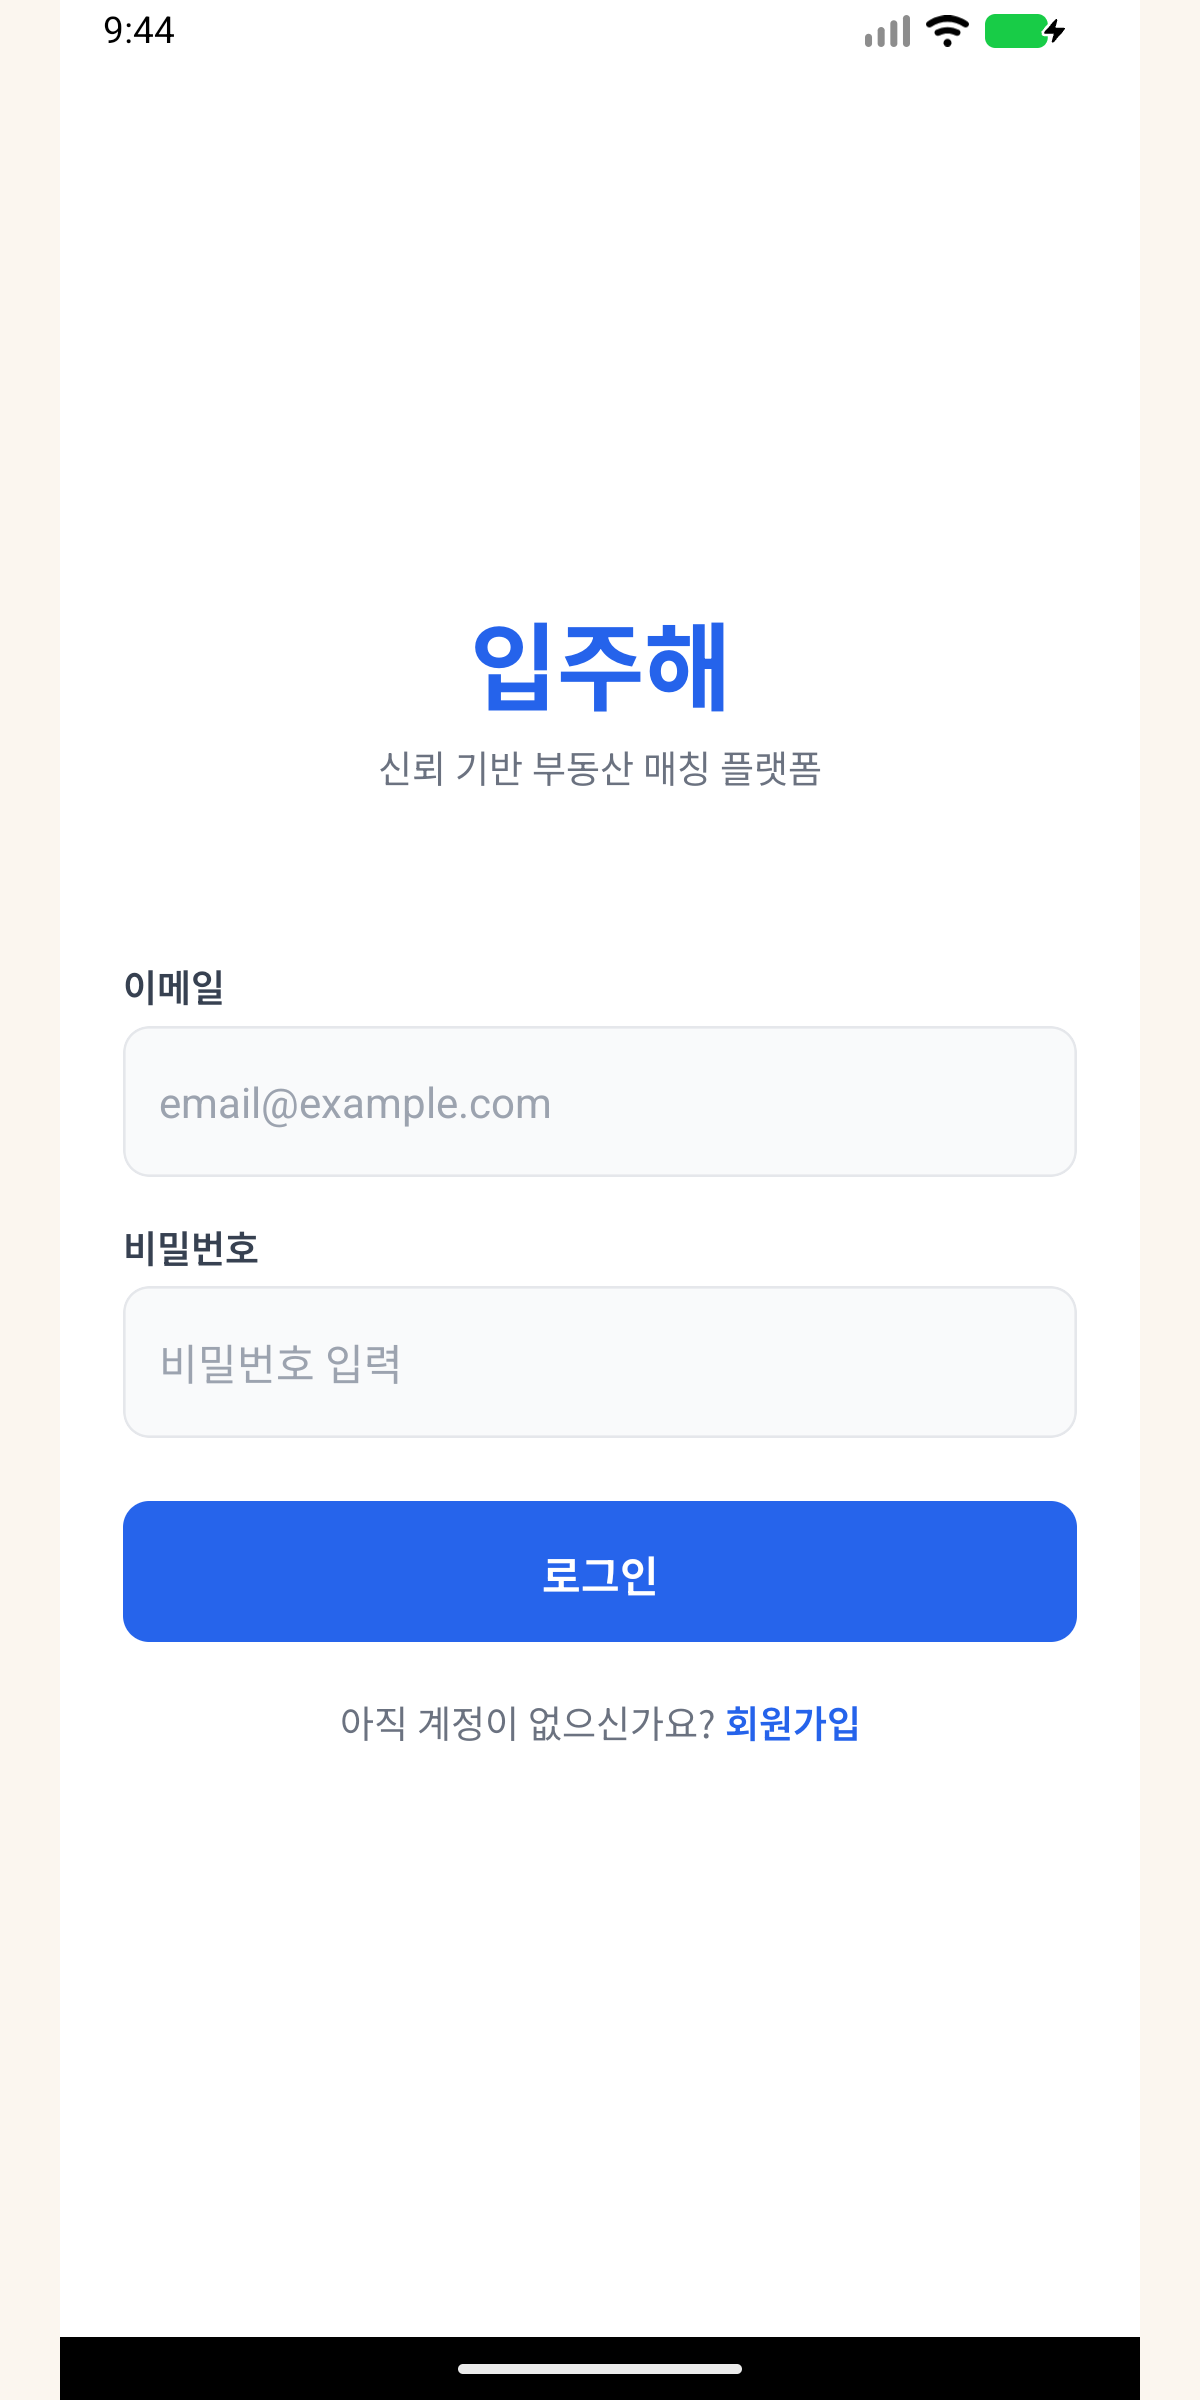
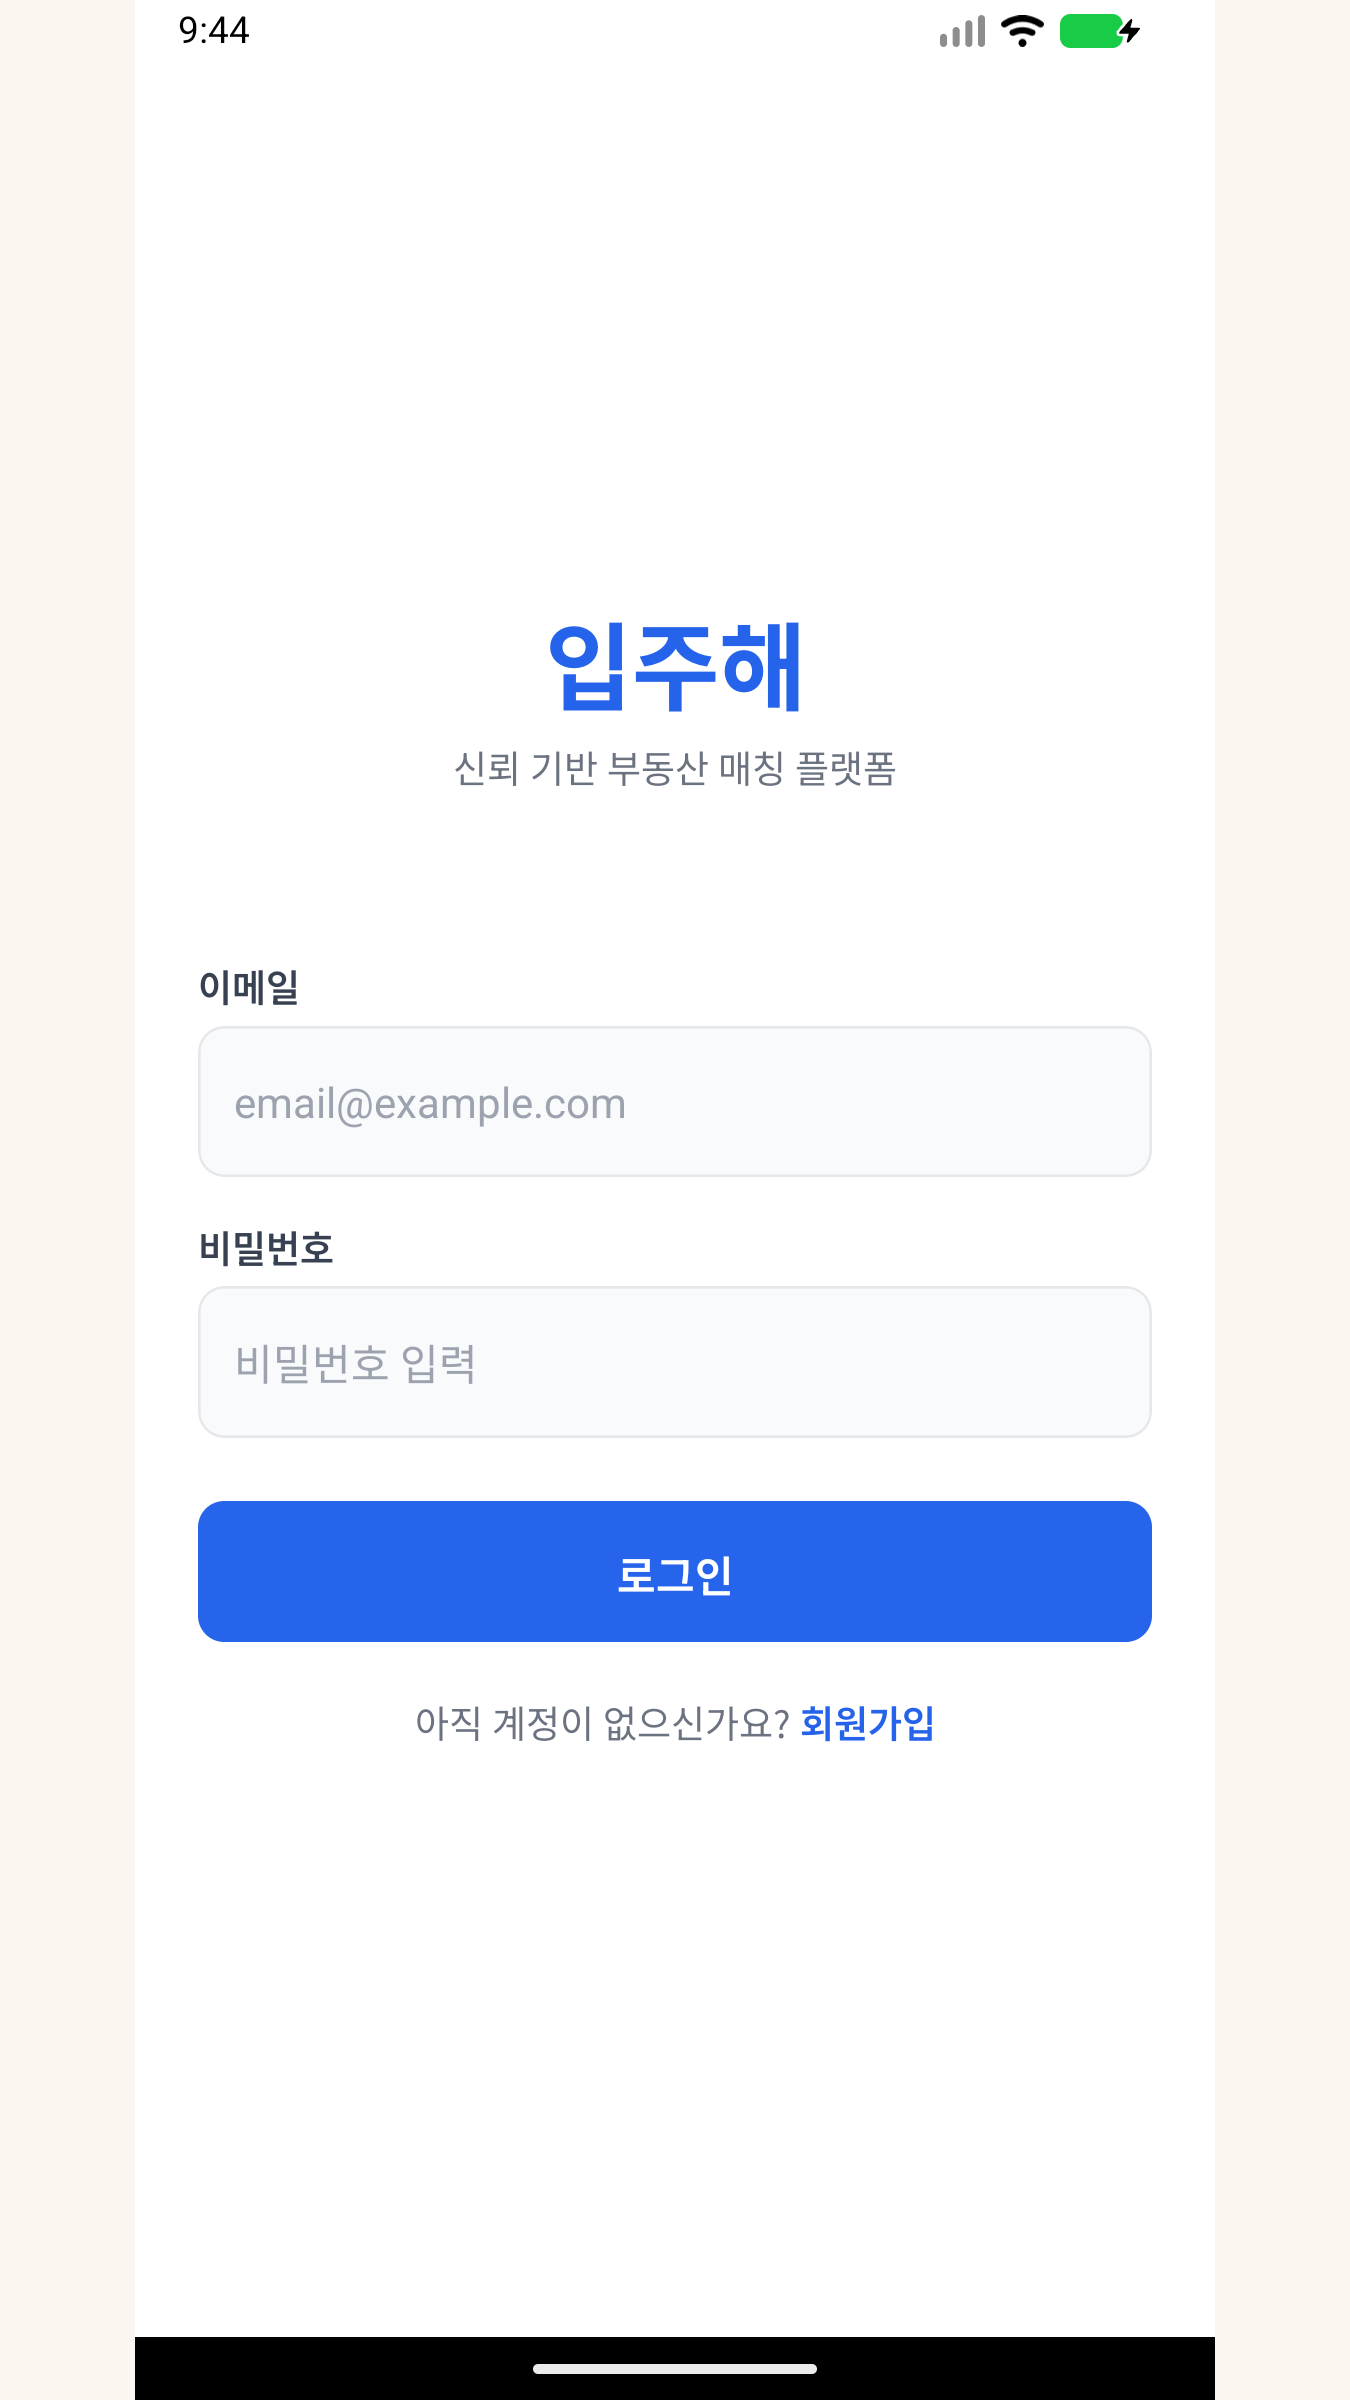
chore(mobile): 스토어 자료 정비 — 문안·스크린샷 규격
- 스크린샷 1200x2400(1:2)은 Play가 받지 않는 비율이라 1350x2400(9:16)으로 맞춤
- 스토어 문안을 앱이 실제로 하는 일로 다시 씀. 매물 0건이라 매물 탐색을
  앞세우면 빈 화면을 보게 되므로 프로필·인증·신뢰를 앞에 두고 초기 단계임을 명시
- 심사 메모 추가 — 매물 탭이 비어 있는 것이 정상임을 미리 알린다
- 심사용 계정 프로덕션 로그인 재확인(2026-09-15), 계정 삭제 경로 공시에 반영

Claude-Session: https://claude.ai/code/session_01XLFyY7qYmhRvdVUCkz4TQh

diff --git a/mobile/store-listing.md b/mobile/store-listing.md
@@ -1,68 +1,118 @@
-# 입주해 스토어 등록 자료 초안
+# 입주해 스토어 등록 자료
+
+제출 직전에 이 파일을 그대로 복사해 쓴다. 문안은 **앱이 지금 실제로 하는 일**만 적는다 —
+스토어 설명과 앱이 다르면 반려되고, 반려를 피해도 받은 사람이 바로 지운다.
+
+> **지금 상태**: 프로덕션 매물 0건. 매물 탐색을 앞세우면 빈 화면을 보게 되므로
+> 프로필·인증·신뢰 점수를 앞에 두고, 매물은 "초기"라고 정직하게 적는다.
 
 ## 앱 이름
-- **입주해 — 세입자 프로필 기반 부동산 매칭** (Play 30자 제한: "입주해 - 세입자 프로필 부동산 매칭")
+
+- App Store: `입주해 — 임대차 신뢰 프로필`
+- Play (30자 제한): `입주해 - 임대차 신뢰 프로필`
 
 ## 짧은 설명 (Play 80자)
-세입자가 프로필을 만들면 집주인이 먼저 제안하는 역방향 임대 매칭. 신뢰 프로필로 안전하게 시작하세요.
+
+```
+세입자도 집주인도 서로를 확인할 수 있게. 학력·직장 대신 확인 가능한 것으로 신뢰를 만듭니다.
+```
 
 ## 긴 설명 (Play 4000자 / App Store)
-**집을 찾아다니지 말고, 제안받으세요.**
 
-입주해는 세입자가 자신의 조건(예산·희망지역·입주시기·생활 정보)을 프로필로 정리하면, 조건이 맞는 집주인이 먼저 연락하는 역방향 임대 매칭 서비스입니다.
+```
+임대차 계약은 서로를 모르는 채 시작됩니다.
 
-**세입자라면**
-- 프로필 한 번 작성으로 반복되는 문의·방문 줄이기
-- 예산과 조건에 맞는 매물 매칭 점수 확인
-- 집주인과 앱 안에서 바로 메시지
-- 재직·소득 등 인증으로 신뢰도 높이기 (선택)
+세입자는 자기가 성실하다는 걸 증명할 방법이 없고, 집주인은 이 사람이 월세를 낼 사람인지 알 방법이 없습니다. 중개사는 양쪽 말만 듣고 계약서를 씁니다. 셋 다 불안한데 아무도 확인을 못 하는 구조입니다.
 
-**집주인이라면**
-- 공실 등록 후 조건 맞는 세입자 프로필 탐색
-- 관심 세입자 저장·메모
-- 문의 전 세입자의 검증된 정보 확인
-- 매물별 조회·관심 통계
+입주해는 그 확인을 가능하게 만듭니다.
 
-**안전하게**
-- 개인정보는 동의 범위에서만 공개됩니다
-- 연락처는 앱 내 메시지로 시작해 필요할 때만 교환
-- 민감 정보는 암호화·마스킹 처리됩니다
+■ 세입자
+- 프로필을 만들고 신뢰 점수를 확인합니다
+- 재직·소득 등을 인증해 점수를 올립니다 (전부 선택)
+- 조건이 맞는 매물을 찾아보고 집주인과 앱 안에서 대화합니다
 
-성남·수도권에서 시작하는 초기 서비스입니다. 의견은 앱 내 문의로 보내주세요.
+■ 집주인
+- 매물을 등록하고 관심 세입자를 확인합니다
+- 문의 전에 상대의 확인된 정보를 봅니다
+- 매물별 조회·관심 현황을 봅니다
+
+■ 보지 않는 것
+학력, 직장 이름, 나이, 결혼 여부, 국적은 묻지 않습니다. 판단에 도움이 안 되고 차별이 되기 때문입니다. 소득은 액수가 아니라 월세 대비 비율로만 봅니다.
+
+■ 개인정보
+필요한 만큼만, 필요한 때만 공개됩니다. 연락처는 앱 안 메시지로 시작해 필요할 때만 교환합니다. 민감한 정보는 암호화·마스킹해 보관하고, 앱 안에서 언제든 계정을 삭제할 수 있습니다.
+
+초기 서비스입니다. 등록된 매물이 아직 많지 않습니다. 프로필과 인증을 먼저 만들어 두시면 매물이 올라올 때 바로 쓰실 수 있습니다. 의견은 support@ipjuhae.com 으로 보내주세요.
+```
 
 ## 키워드 (App Store 100자)
-전세,월세,임대,부동산,세입자,집주인,원룸,매칭,방구하기,임대차
+
+```
+전세,월세,임대,부동산,세입자,집주인,임대차,등기부,보증금,계약,신뢰,프로필
+```
 
 ## 카테고리
-- Play: 하우스/홈 (또는 라이프스타일)
-- App Store: Lifestyle (secondary: Productivity)
 
-## Google Play 그래픽 자산
-- Feature graphic: `assets/play-feature-graphic.png` (1024x500 PNG)
+- Play: 하우스/홈
+- App Store: Lifestyle (secondary: Utilities)
 
-## 필수 URL/정보
-- 개인정보처리방침: https://www.ipjuhae.com/privacy (보호책임자: 김다운 / privacy@ipjuhae.com)
-- 지원(문의): https://www.ipjuhae.com (또는 지원 이메일 — 결정 필요)
-- 심사용 테스트 계정: `store-review@test.ipjuhae.com` / `Review2026ipjuhae` (2026-08-31 생성, 프로덕션 활성)
+## 필수 URL·정보
 
-## 스크린샷 (준비됨)
-- `assets/store-screenshots/01-login.png` / `02-home.png` / `03-profile.png` (1200×2400, Play 2:1 규격 패딩)
+| 항목 | 값 |
+| --- | --- |
+| 개인정보처리방침 | https://www.ipjuhae.com/privacy (200 확인) |
+| 이용약관 | https://www.ipjuhae.com/terms |
+| 지원 URL | https://www.ipjuhae.com |
+| 지원 이메일 | support@ipjuhae.com |
+| 개인정보 보호책임자 | 김다운 / privacy@ipjuhae.com |
+| 패키지·번들 ID | `com.ipjuhae.app` |
+
+## 심사용 계정
+
+```
+store-review@test.ipjuhae.com
+Review2026ipjuhae
+```
+
+2026-09-15 프로덕션 로그인 확인 완료(HTTP 200). **제출 전에 다시 한 번 로그인해 볼 것** —
+이 계정이 막혀 있으면 심사가 그 자리에서 멈춘다.
+
+심사 메모에 함께 적을 것:
+
+```
+초기 단계 서비스라 등록된 매물이 아직 없습니다. 매물 탭은 비어 있는 것이 정상입니다.
+프로필 작성, 신뢰 점수, 인증 관리, 설정(계정 삭제 포함)으로 기능을 확인하실 수 있습니다.
+계정 삭제: 설정 → 계정 삭제 (앱 안에서 즉시 처리됩니다).
+```
+
+## 그래픽 자산
+
+| 자산 | 파일 | 규격 |
+| --- | --- | --- |
+| 앱 아이콘 | `assets/icon.png` | 1024×1024 |
+| Play 피처 그래픽 | `assets/play-feature-graphic.png` | 1024×500 |
+| 스크린샷 | `assets/store-screenshots/01-login.png` `02-home.png` `03-profile.png` | 1350×2400 (9:16) |
+
+**Play는 9:16 ~ 16:9 밖의 비율을 받지 않는다.** 1200×2400(1:2)이던 것을 1350×2400으로 맞췄다.
+iOS는 6.7"(1290×2796) 규격이 따로 필요하므로 Apple 계정이 생기면 그때 다시 뽑는다.
 
 ## 데이터 수집 공시 (Data Safety / App Privacy)
-| 항목 | 수집 | 목적 | 연결됨 |
-|---|---|---|---|
-| 이메일 | ✔ | 계정 | 예 |
-| 이름 | ✔(선택) | 프로필 | 예 |
-| 전화번호 | ✔(선택) | 본인 배지 | 예 |
-| 사진 | ✔(선택) | 프로필/매물 | 예 |
-| 메시지 | ✔ | 앱 기능 | 예 |
-| 위치 | ✖ (매물 주소는 사용자가 입력, 기기 위치 미수집) | — | — |
-- 전송 중 암호화: 예 / 삭제 요청 가능: 예 (앱 내 회원탈퇴)
 
-## 스크린샷 계획 (5장)
-1. 홈 — "제안받는 임대의 시작" 히어로
-2. 매물 탐색 리스트
-3. 매물 상세 + 연락 버튼
-4. 매칭 결과(점수)
-5. 채팅 화면
-(preview APK에서 캡처, iOS 6.7"/5.5" + Android 폰 규격으로 리사이즈)
+| 항목 | 수집 | 목적 | 계정 연결 |
+| --- | --- | --- | --- |
+| 이메일 | ✔ | 계정 | 예 |
+| 이름 | ✔ (선택) | 프로필 | 예 |
+| 전화번호 | ✔ (선택) | 본인 확인 배지 | 예 |
+| 사진 | ✔ (선택) | 프로필·매물 | 예 |
+| 메시지 | ✔ | 앱 기능 | 예 |
+| 기기 위치 | ✖ | 수집하지 않음 (매물 주소는 사용자가 직접 입력) | — |
+
+- 전송 중 암호화: 예
+- 계정·데이터 삭제 요청: 예 — **앱 안에서 직접 가능** (설정 → 계정 삭제)
+- 데이터 삭제 URL: https://www.ipjuhae.com/privacy
+
+## 아직 못 채운 것
+
+- iOS 규격 스크린샷 (Apple 계정 필요)
+- 스크린샷 3장 — Play 최소(2장)는 넘지만 5장이 권장된다. 매물·메시지 화면은 매물이 생긴 뒤에 찍는 게 낫다
+- 앱 UI가 아직 웹 브랜드(주황 #f0663f / 네이비)와 다른 파란 테마다. 반려 사유는 아니지만 첫인상이 갈린다
